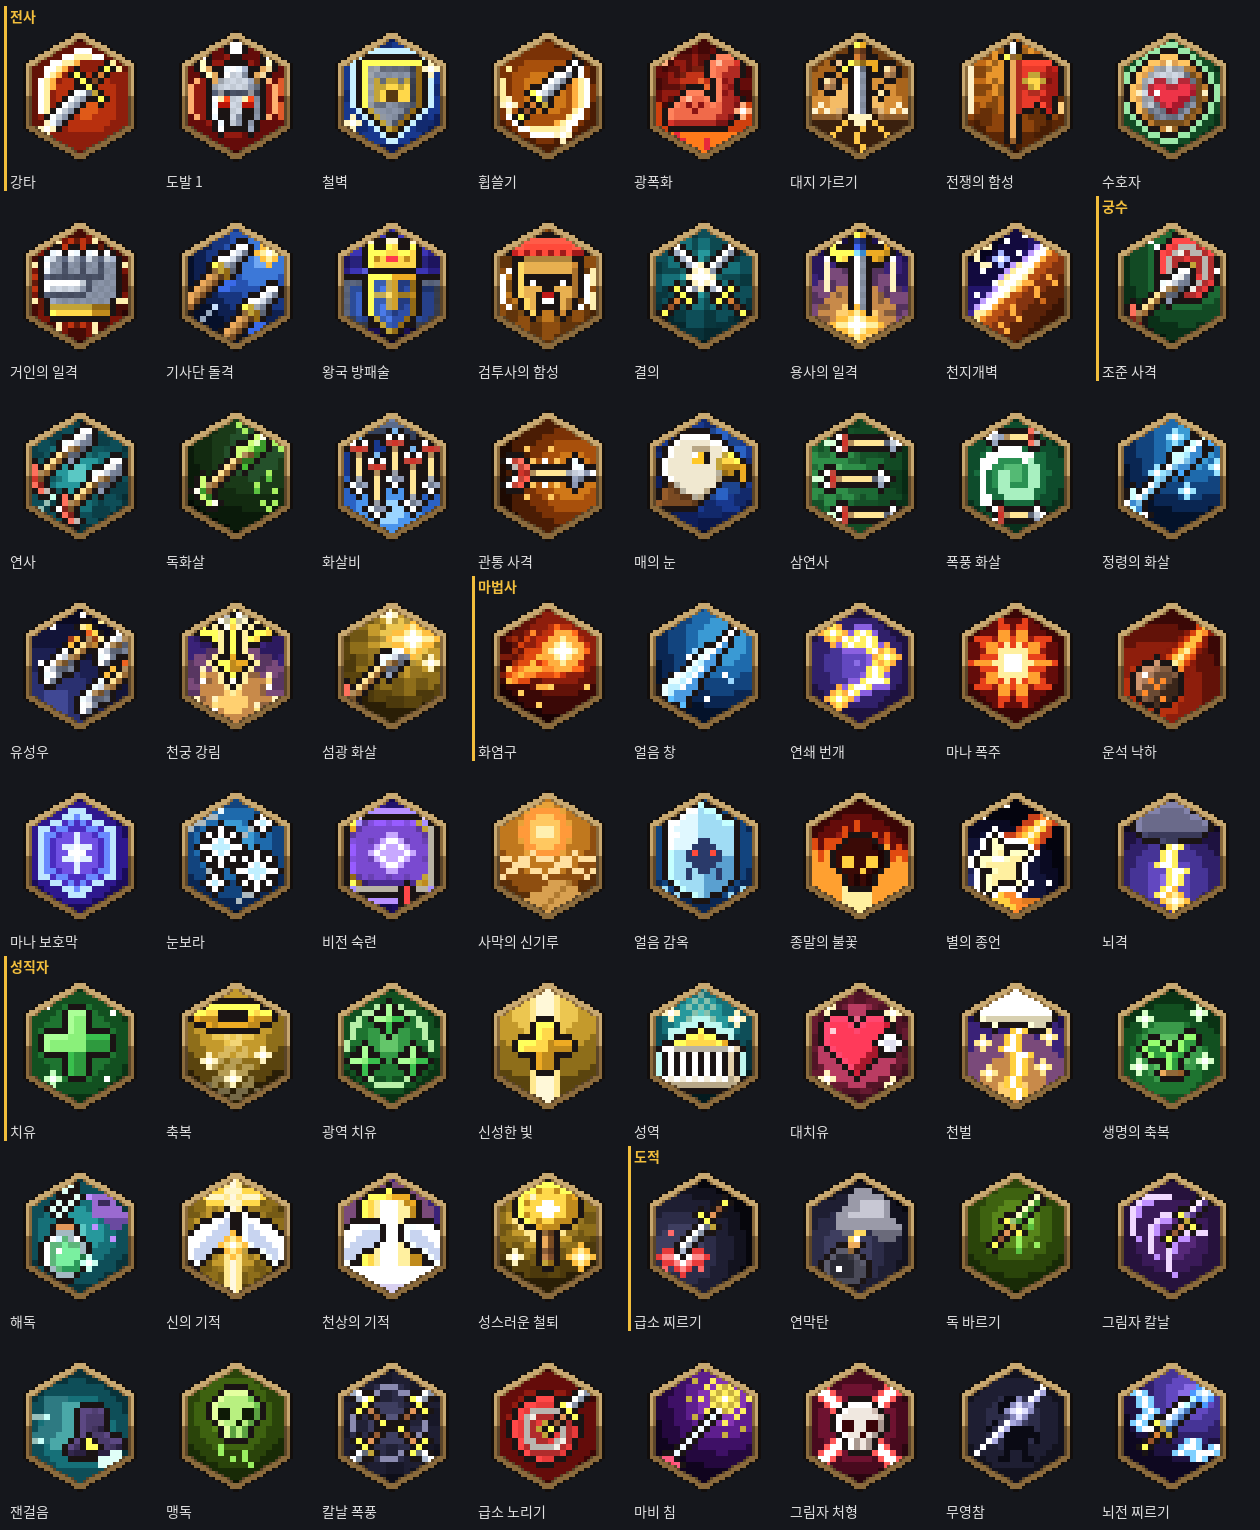
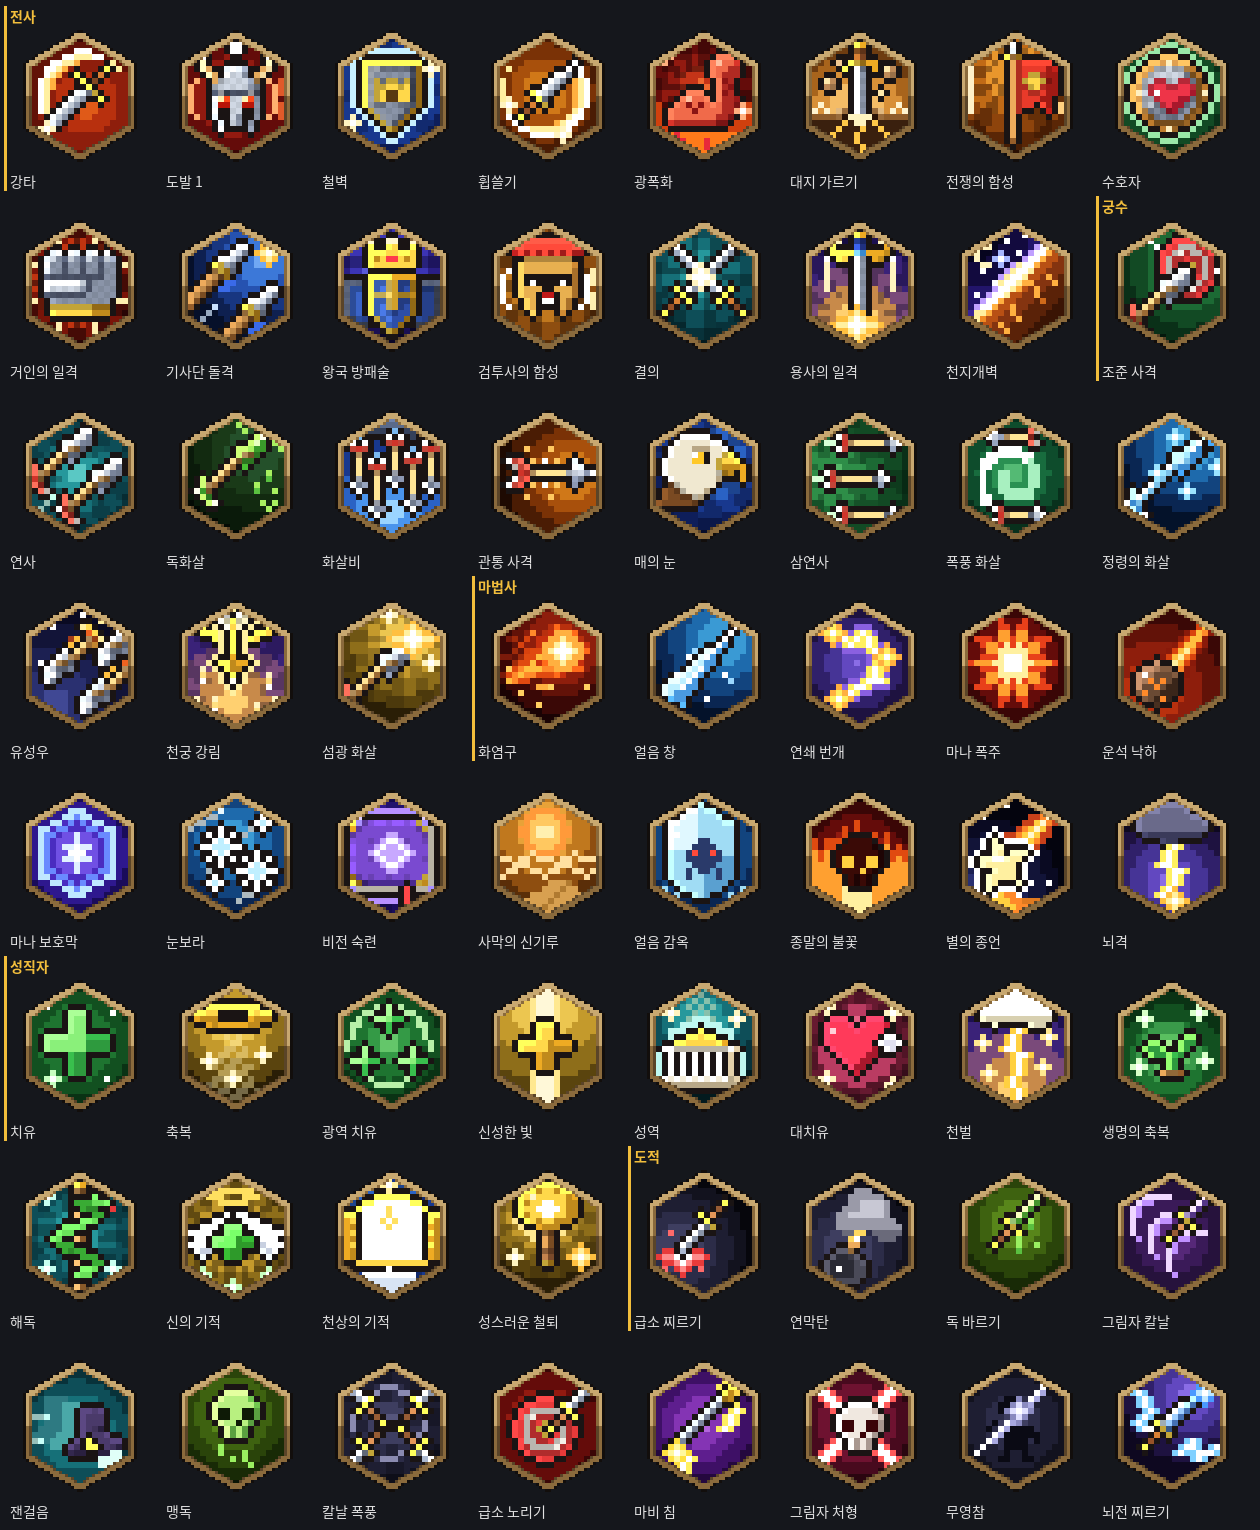
스킬 아이콘 시안: 거의 그대로였던 것 6개 더 새로 + 전후 비교 시트 (게임에 아직 안 넣음)
Claude-Session: https://claude.ai/code/session_01WLiZx3Lii4cu91RuDKqyaT

Changed region(s): [[0.1238, 0.768, 0.3714, 0.8601], [0.4952, 0.8908, 0.619, 0.983], [0.031, 0.768, 0.0929, 0.8601]]

diff --git a/drafts/skill-icons/dot/fix_f.py b/drafts/skill-icons/dot/fix_f.py
@@ -1,4 +1,4 @@
-"""2단계 고치기 F: 앞서 손봤지만 전과 거의 같아 보이던 13개를 새로 (광폭화·기사단 돌격·비전 숙련·별의 종언·잰걸음·질주·집중·전술·관중의 함성·콜로세움·헌신·광란·피의 만찬)"""
+"""2단계 고치기 F: 앞서 손봤지만 전과 거의 같아 보이던 19개를 새로 (광폭화·기사단 돌격·비전 숙련·별의 종언·잰걸음·질주·집중·전술·관중의 함성·콜로세움·헌신·광란·피의 만찬·해독·신의 기적·천상의 기적·마비 침·신속)"""
 import math
 import cell
 from cell import Art, mix, W, H, dsword, dsword_ur, sword
@@ -75,14 +75,6 @@ def sprint():
     sp(a, WBOOT, 3, 7)
     sp(a, ['hhhh'], 5, 6, {'h': ('#fff8d0', 6)})
     return a, 0
-# ── 집중: 안쪽을 가리키는 네 화살촉에 둘러싸인 눈 ──
-def focus():
-    a = A('teal', cuts=[0.0, 0.25, 0.48, 0.7, 0.9])
-    for (x, y) in ring_cells(7.5, 10.0, 6.4, 6.4, 0.45): a.set(x, y, '#5ac8c4')
-    sp(a, EYE, 3, 6, {'k': ('#1a1414', 1), 'w': ('#ffffff', 7), '1': ('#9af0e0', 12), '2': ('#2a9a8a', 12), '3': ('#0a2a2a', 1)})
-    for rows_, (x, y) in [(['www', '.w.'], (6, 1)), (['.w.', 'www'], (6, 17)), (['w.', 'ww', 'w.'], (0, 9)), (['.w', 'ww', '.w'], (14, 9))]:
-        a.paint(rows_, {'w': '#ffffff'}, ox=x, oy=y)
-    return a, 0
 # ── 전술: 작전 지도 위 화살표 + 기사 말 ──
 def tactics():
     a = A('royal', cuts=[0.0, 0.22, 0.42, 0.62, 0.84])
@@ -144,6 +136,80 @@ def bloodfeast():
         for i in range(n): a.set(x, y0 + i, '#e8283a')
         a.set(x, y0 + n, '#ff6a6a')
     return a, 0
+
+# ── 덧붙임: 한 번 더 손봐도 전과 비슷하던 6개 ──
+def focus():
+    a = A('amber', rays=20, k=0.55, hole=4.5)
+    for ang in range(0, 360, 30):
+        r0, r1 = 5.6, 9.5
+        x0, y0 = 7.5 + math.cos(math.radians(ang)) * r0, 9.5 + math.sin(math.radians(ang)) * r0
+        x1, y1 = 7.5 + math.cos(math.radians(ang)) * r1, 9.5 + math.sin(math.radians(ang)) * r1
+        line(a, int(x1), int(y1), int(x0), int(y0), '#ffe080', '#ffffff')
+    EY = (['...kkkkk...', '.kkwwwwwkk.', 'kwwwwkkwwwk', 'kwwwk1kkwwk', 'kwwwkkkkwwk', '.kkwwwwwkk.', '...kkkkk...'], {'k': ('#2a1206', 1), 'w': ('#fff8ec', 7), '1': ('#ffffff', 1)})
+    EY = (['...kkkkk...', '.kkwwwwwkk.', 'kwwwoookwwk', 'kwwoo1okkwk', 'kwwookkokwk', '.kkwwoowkk.', '...kkkkk...'], {'k': ('#2a1206', 1), 'w': ('#fff8ec', 7), 'o': ('#e07a20', 14), '1': ('#ffffff', 1)})
+    sp(a, EY, 2, 6)
+    return a, 0
+def cure():
+    a = A('teal', rays=12, k=0.35, hole=4)
+    STAFF = {}
+    for y in range(2, 19): STAFF[(7, y)] = 't'; STAFF[(8, y)] = 'T'
+    STAFF[(7, 1)] = 'y'; STAFF[(8, 1)] = 'Y'
+    sp(a, grid(STAFF), dict(GOLD, t=('#d8a060', 3), T=('#8a5a2a', 3)))
+    SN = {}
+    for i in range(60):
+        t = i / 59; y = 16.5 - t * 12.0; x = 7.5 + math.sin(t * math.pi * 3.0) * 3.2
+        for dx in (-0.5, 0.5):
+            SN[(int(x + dx), int(y))] = 'g' if math.cos(t * math.pi * 3.0) > 0 else 'G'
+    for (x, y) in [(10, 3), (11, 3), (10, 4), (11, 4), (12, 4)]: SN[(x, y)] = 'g'
+    SN[(11, 3)] = 'k'
+    sp(a, grid(SN), {'g': ('#6ae05a', 8), 'G': ('#2e8a2a', 8), 'k': ('#1a1414', 1)})
+    a.set(13, 5, '#e83a3a')
+    for (x, y) in [(2, 3), (13, 15), (2, 15)]: plus(a, x, y, '#ffffff', '#c8fff0')
+    return a, 0
+def awk_cleric():
+    a = A('holy', cy=10, rays=16, k=0.45, hole=3)
+    WL = (['......ww', '....wwwf', '..wwwwff', 'wwwwwfff', '.wwwfff.', 'wwwfff..', '.wff....', '..f.....'], {'w': ('#ffffff', 7), 'f': ('#c8d0e0', 7)})
+    sp(a, WL, 0, 6); sp(a, (flip(WL[0]), WL[1]), 8, 6)
+    for (x, y) in ring_cells(7.5, 3.4, 3.0, 1.1, 0.45): a.set(x, y, '#ffe060')
+    sp(a, grid(cross_cm(7.5, 11.0, 3.4, 2.6, 'g', 'G')), {'g': ('#7aff6a', 8), 'G': ('#2e9a2a', 8)})
+    for (x, y) in [(2, 16), (13, 16), (7, 18)]: plus(a, x, y, '#ffffff', '#c8ffc0')
+    return a, 0
+def awk2_cleric():
+    a = A('sky', cy=9, r=14, rays=14, k=0.35, hole=3)
+    GATE = (['....yyyyyy....', '..yyhhhhhhyy..', '.yhhhhhhhhhhy.', 'yhhhhhhhhhhhhy', 'yhhhhhhhhhhhhy', 'yhhhhhhhhhhhhy', 'yhhhhhhhhhhhhy', 'yhhhhhhhhhhhhy', 'yhhhhhhhhhhhhy', 'yhhhhhhhhhhhhy', 'yhhhhhhhhhhhhy', 'yyyyyyyyyyyyyy'],
+            dict(GOLD, h=('#ffffff', 1)))
+    DOOR = (['yy', 'Yy', 'YY', 'Yy', 'YY', 'Yy', 'YY', 'YY'], GOLD)
+    sp(a, GATE, 1, 3)
+    sp(a, DOOR, 0, 6); sp(a, (flip(DOOR[0]), GOLD), 14, 6)
+    for (x, y) in [(7, 5), (7, 6), (6, 7), (8, 7), (7, 8)]: a.set(x, y, '#ffe060')
+    for y in range(15, 20):
+        for x in range(16):
+            if (x + 0.5 - 7.5) ** 2 / 64 + (y - 20) ** 2 / 25 <= 1: a.set(x, y, '#ffffff' if y < 17 else '#d8e4f4')
+    for (x, y) in [(0, 2), (15, 3), (7, 1)]: plus(a, x, y, '#ffffff', '#fff0a0')
+    return a, 0
+def parasting():
+    a = A('purple', cuts=[0.0, 0.22, 0.42, 0.62, 0.84])
+    paint_cm(a, bolt([(12, 2), (10, 5), (13, 7), (11, 10)], w=1), {'w': '#ffffff', 'y': '#fff060'})
+    paint_cm(a, bolt([(4, 11), (2, 14), (5, 15), (3, 18)], w=1), {'w': '#ffffff', 'y': '#fff060'})
+    DART = ['..........yy', '.........yYy', '........mYY.', '.......mM...', '......mM....', '.....mM.....', '....mM......', '...mM.......', '..mM........', '.wM.........', 'w...........']
+    sp(a, DART, 2, 3, dict(GOLD, m=('#d4dcea', 5), M=('#7a849a', 5), w=('#ffffff', 5)))
+    burst(a, 3, 14, big=False, cols=('#ffffff', '#fff8a0', '#ffe040'))
+    return a, 0
+def haste():
+    a = A('sky', rays=12, k=0.35, hole=4)
+    speed(a, [(0, 7, 2, 7), (0, 11, 1, 11), (0, 15, 2, 15)], '#ffffff')
+    W_ = {}
+    for (x, y) in ellipse(8.5, 11.0, 5.4, 5.4, 'x'):
+        d = math.hypot(x + 0.5 - 8.5, y + 0.5 - 11.0)
+        W_[(x, y)] = ('y' if x + y < 19 else 'Y') if d > 4.4 else 'e'
+    for (x, y) in [(8, 3), (9, 3), (8, 4), (9, 4)]: W_[(x, y)] = 'y'
+    for (x, y) in [(7, 2), (8, 2), (9, 2), (10, 2)]: W_[(x, y)] = 'Y'
+    for (x, y) in [(13, 5), (14, 6)]: W_[(x, y)] = 'Y'
+    sp(a, grid(W_), dict(GOLD, e=('#fff8ec', 7)))
+    paint_cm(a, bolt([(10, 7), (8, 10), (10, 11), (7, 15)], w=0), {'w': '#ffc020'})
+    for (x, y) in [(8, 7), (8, 14), (5, 11), (12, 11)]: a.set(x, y, '#5a4a3a')
+    return a, 0
 ICONS = {'berserk': ('광폭화', 'buff', berserk), 'kn_charge': ('기사단 돌격', 'dmg', kn_charge), 'arcane': ('비전 숙련', 'none', arcane), 'awk2_mage': ('별의 종언', 'mdmg', awk2_mage),
          'quickstep': ('잰걸음', 'none', quickstep), 'sprint': ('질주', 'none', sprint), 'focus': ('집중', 'none', focus), 'tactics': ('전술', 'none', tactics),
-         'roar': ('관중의 함성', 'buff', roar), 'colosseum': ('콜로세움', 'dmg', colosseum), 'devotion': ('헌신', 'none', devotion), 'frenzy': ('광란', 'none', frenzy), 'bloodfeast': ('피의 만찬', 'dmg', bloodfeast)}
+         'roar': ('관중의 함성', 'buff', roar), 'colosseum': ('콜로세움', 'dmg', colosseum), 'devotion': ('헌신', 'none', devotion), 'frenzy': ('광란', 'none', frenzy), 'bloodfeast': ('피의 만찬', 'dmg', bloodfeast),
+         'cure': ('해독', 'cure', cure), 'awk_cleric': ('신의 기적', 'heal', awk_cleric), 'awk2_cleric': ('천상의 기적', 'heal', awk2_cleric), 'parasting': ('마비 침', 'dmg', parasting), 'haste': ('신속', 'none', haste)}

diff --git a/drafts/skill-icons/dot/REWORK.md b/drafts/skill-icons/dot/REWORK.md
@@ -18,4 +18,4 @@ fix_b.py: packmule dw_smash sprint focus haste tactics ar_cheer ar_finish bandag
 fix_c.py: trap wolfcall instinct jump dragonscale gale skyfall dragonfall godseye horsecare gallop cargoshield stampede roadlord spotweak farsight (창은 spear.py 새로)
 fix_d.py: parrying swordrain dancemaster smokebomb goldrush grandheist windspirit earthward waterspirit spiritking deathplague wyrmbane houndpack wildsense giantslayer anatomy quaketrap titanfall transmute
 fix_e.py: cureall blackdeath frostblade arcaneguard starward swordsaint prayer grace miracle holyland archangel resurrect remedy epidemic holywater exorcism inquisition fr_song el_breath dw_grit weaken riposte ar_combo
-fix_f.py: berserk kn_charge arcane awk2_mage quickstep sprint focus tactics roar colosseum devotion frenzy bloodfeast (A·B에서 손봤지만 전과 거의 같아 보여 새로)
+fix_f.py: berserk kn_charge arcane awk2_mage quickstep sprint focus tactics roar colosseum devotion frenzy bloodfeast cure awk_cleric awk2_cleric parasting haste (A·B에서 손봤지만 전과 거의 같아 보여 새로)
